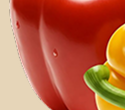
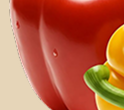
Revisi Puzzle

diff --git a/static/js/puzzle.js b/static/js/puzzle.js
@@ -580,6 +580,13 @@ piece.addEventListener("touchstart", (e) => {
                 img.style.top = slot.style.top;
                 img.style.width = slot.style.width;
                 img.style.height = slot.style.height;
+                img.style.border = "none";
+img.style.outline = "none";
+img.style.boxShadow = "none";
+img.style.borderRadius = "0";
+img.style.objectFit = "fill";
+img.style.margin = "0";
+img.style.padding = "0";
                 img.draggable = false;
 
                 document.getElementById("board").appendChild(img);
@@ -611,10 +618,26 @@ function puzzleSolved() {
     });
 
     // MEMASTIKAN GAMBAR MENUTUPI CELAH
-    const placedPieces = document.querySelectorAll("#board img:not(.siluet-bg):not(#full-image)");
-    placedPieces.forEach(p => {
-        p.style.transform = "translateZ(0) scale(1.01)"; // Paksa tumpang tindih 1%
-    });
+  const placedPieces = document.querySelectorAll("#board img:not(.siluet-bg):not(#full-image)");
+placedPieces.forEach(p => {
+    // Hapus semua styling yang bisa bikin gap
+    p.style.border = "none";
+    p.style.outline = "none";
+    p.style.boxShadow = "none";
+    p.style.borderRadius = "0";
+    p.style.margin = "0";
+    p.style.padding = "0";
+    // Expand 1px ke semua sisi untuk tutup seam
+    const left = parseFloat(p.style.left) - 0.5;
+    const top = parseFloat(p.style.top) - 0.5;
+    const width = parseFloat(p.style.width) + 1;
+    const height = parseFloat(p.style.height) + 1;
+    p.style.left = left + "px";
+    p.style.top = top + "px";
+    p.style.width = width + "px";
+    p.style.height = height + "px";
+    p.style.imageRendering = "pixelated";
+});
     
     totalScore += scorePerSolved;
     localStorage.setItem("puzzleScore", totalScore);

diff --git a/static/css/puzzle.css b/static/css/puzzle.css
@@ -114,16 +114,19 @@ body {
 /* SLOT */
 .slot {
   position: absolute;
-  border: 2px dashed rgba(2, 136, 209, 0.4);
+  border:  2px dashed rgba(2, 136, 209, 0.4);
   z-index: 5;
   transition: opacity 0.5s ease;
 }
-
 /* Fix seam tanpa blur */
 #board img:not(#full-image):not(.siluet-bg) {
-  outline: 1px solid transparent;
+  outline: none;
+  border: none;
+  margin: 0;
+  padding: 0;
   backface-visibility: hidden;
   -webkit-backface-visibility: hidden;
+  image-rendering: pixelated;
 }
 
 /* Background puzzle */
@@ -153,7 +156,7 @@ body {
   box-shadow: 0 4px 8px rgba(0,0,0,0.1);
   touch-action: none;
   display: block;
-  object-fit: contain;
+  object-fit: fill; /* ← ubah dari contain ke fill */
   backface-visibility: hidden;
   -webkit-backface-visibility: hidden;
 }
